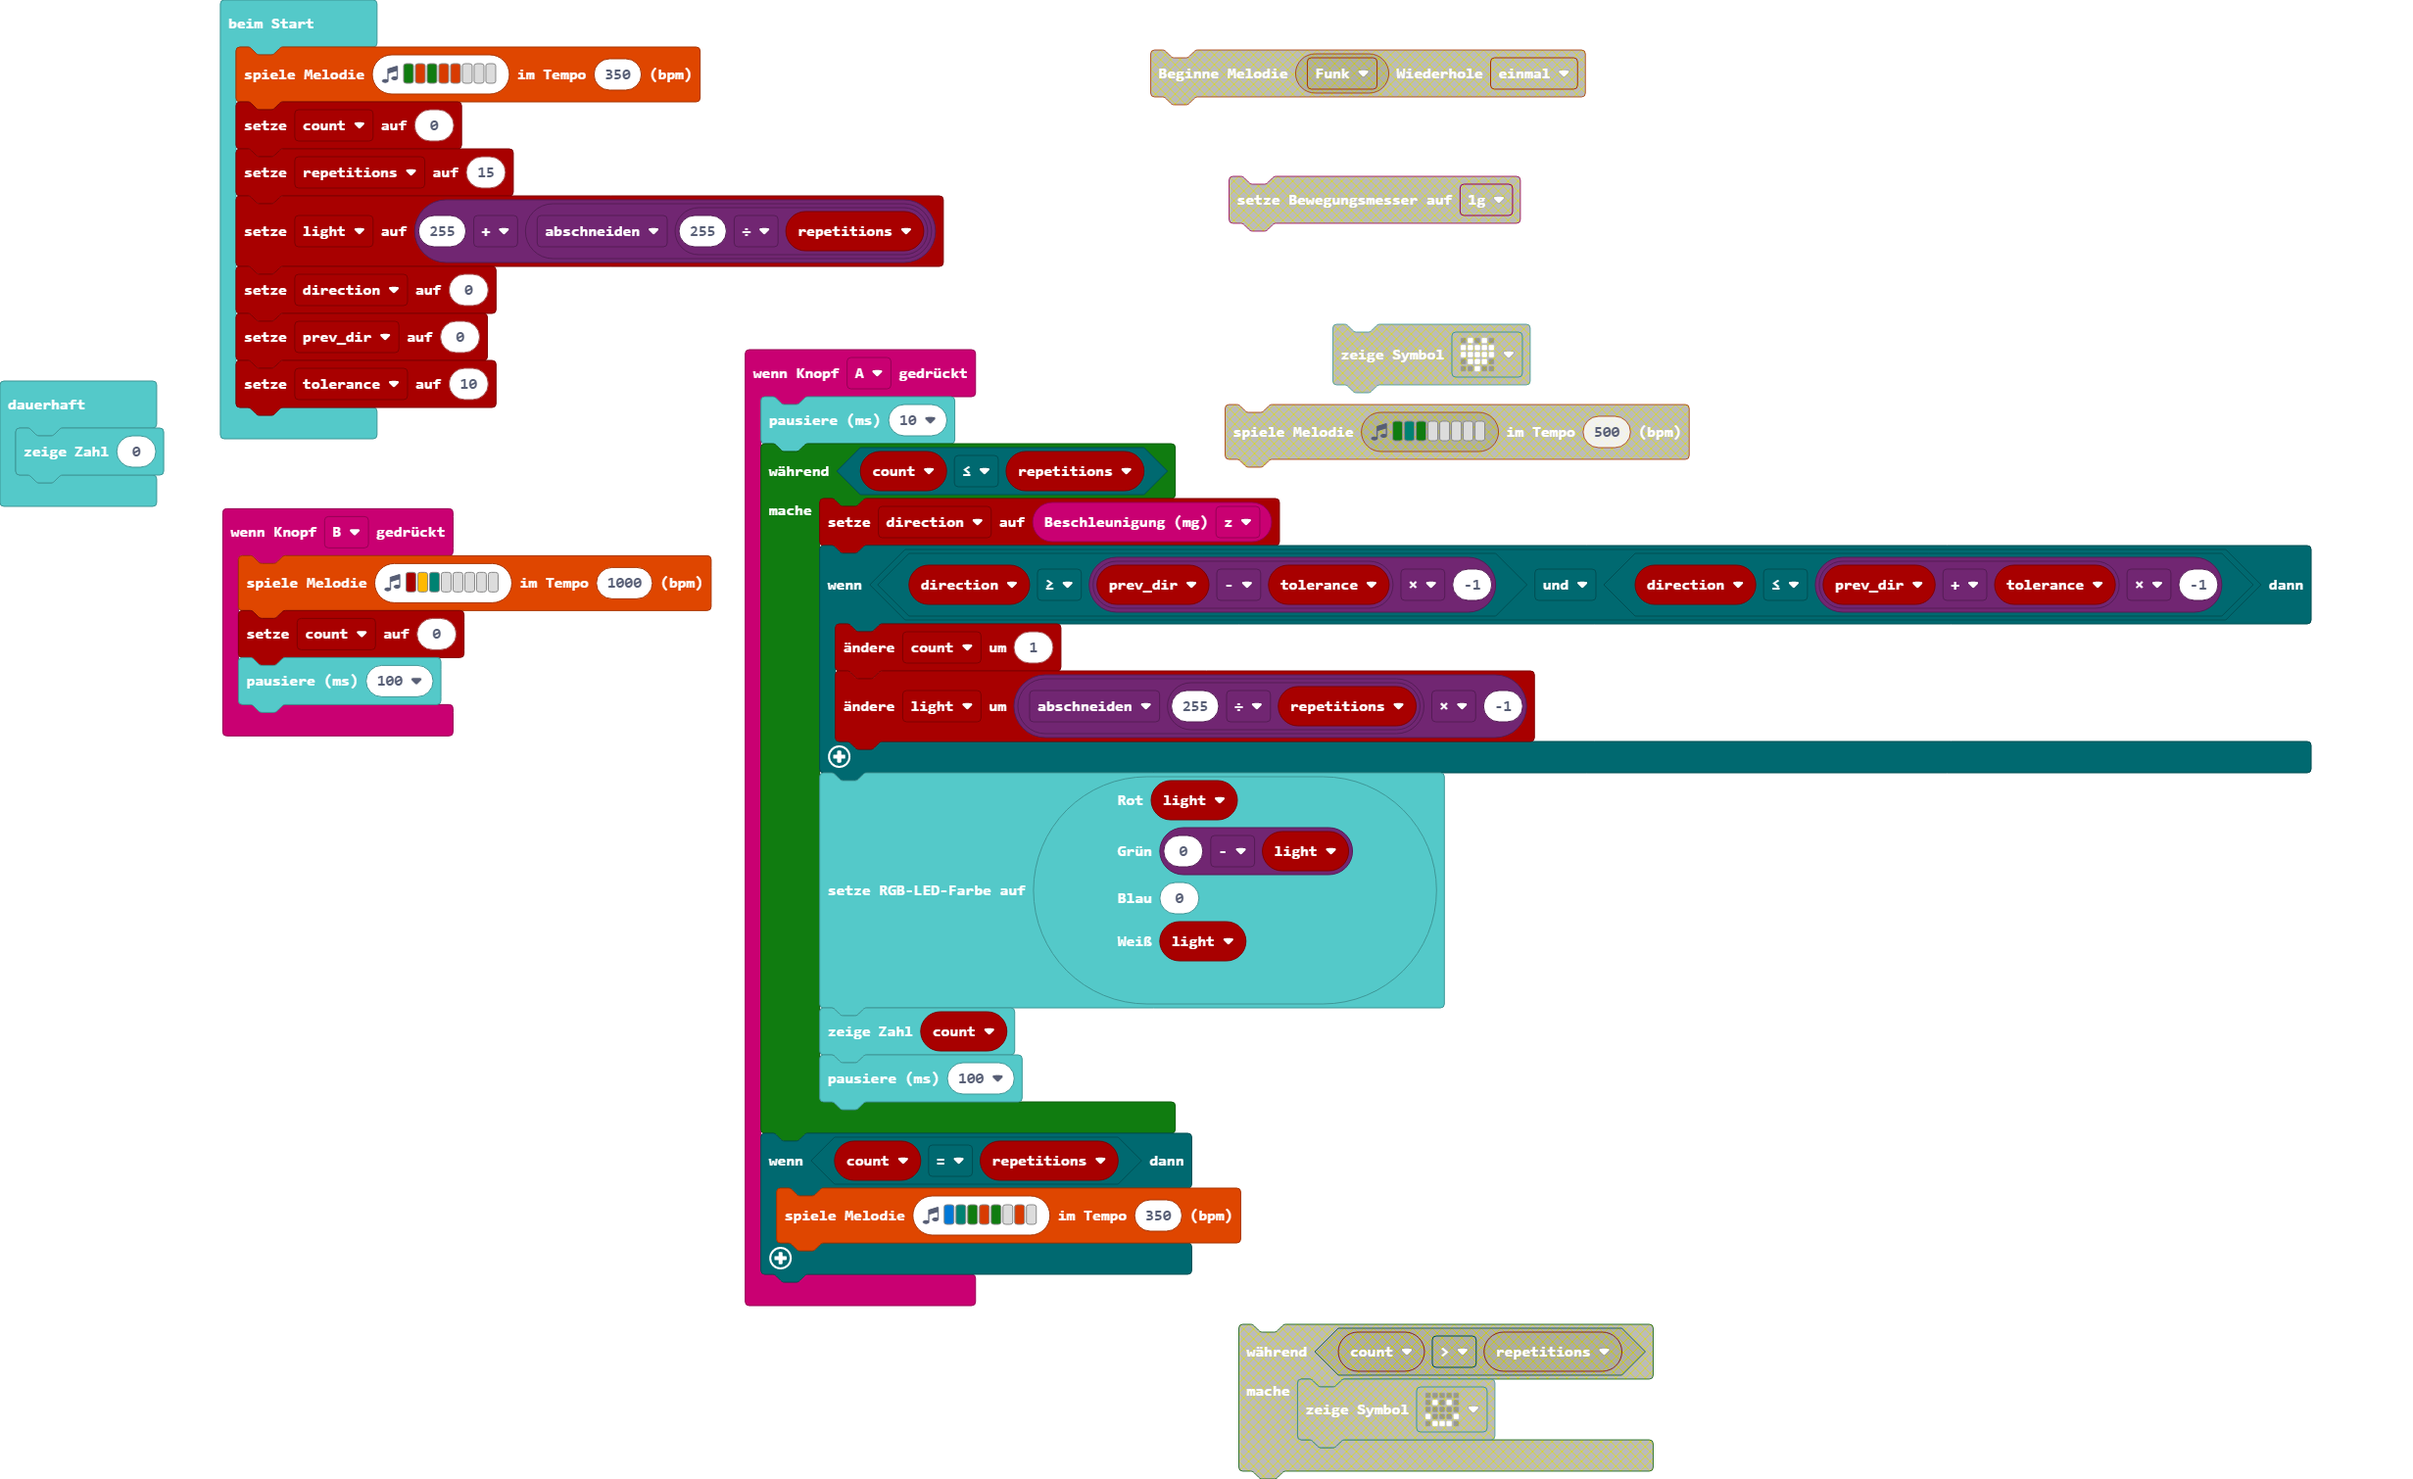
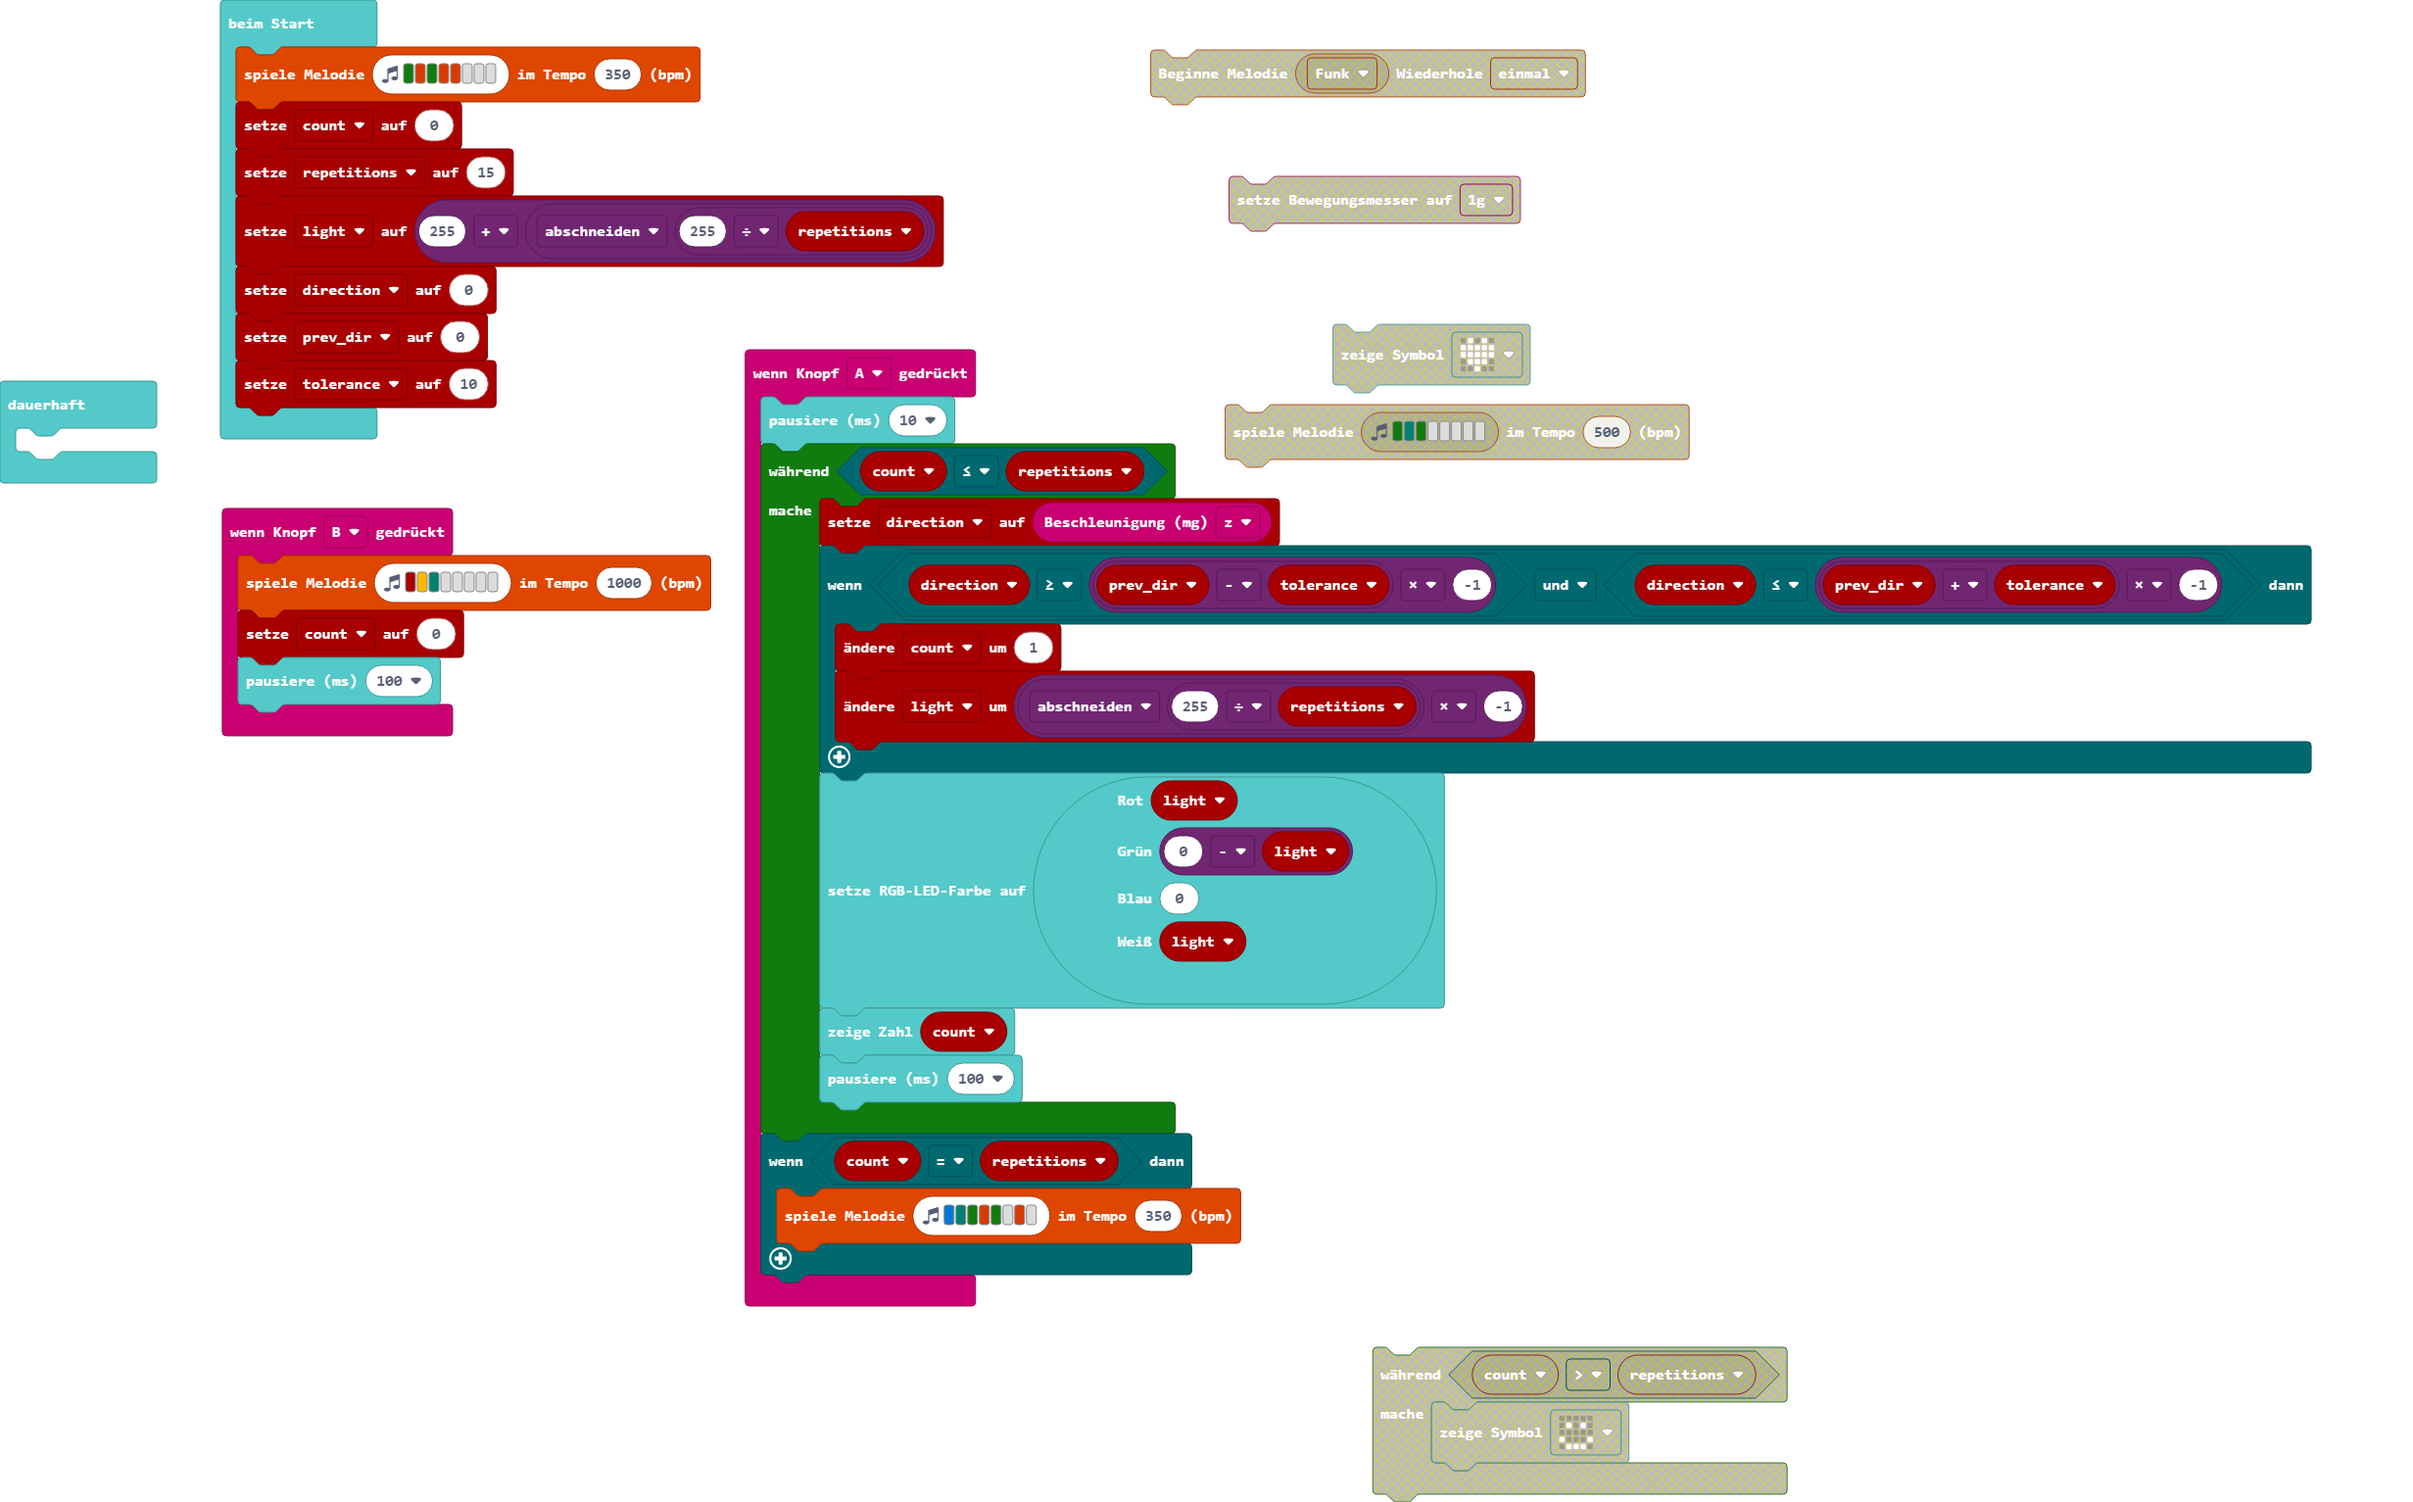
Aktualisiere main.blocks, main.ts

diff --git a/main.ts b/main.ts
@@ -38,5 +38,5 @@ direction = 0
 prev_dir = 0
 tolerance = 10
 basic.forever(function () {
-    basic.showNumber(0)
+	
 })
